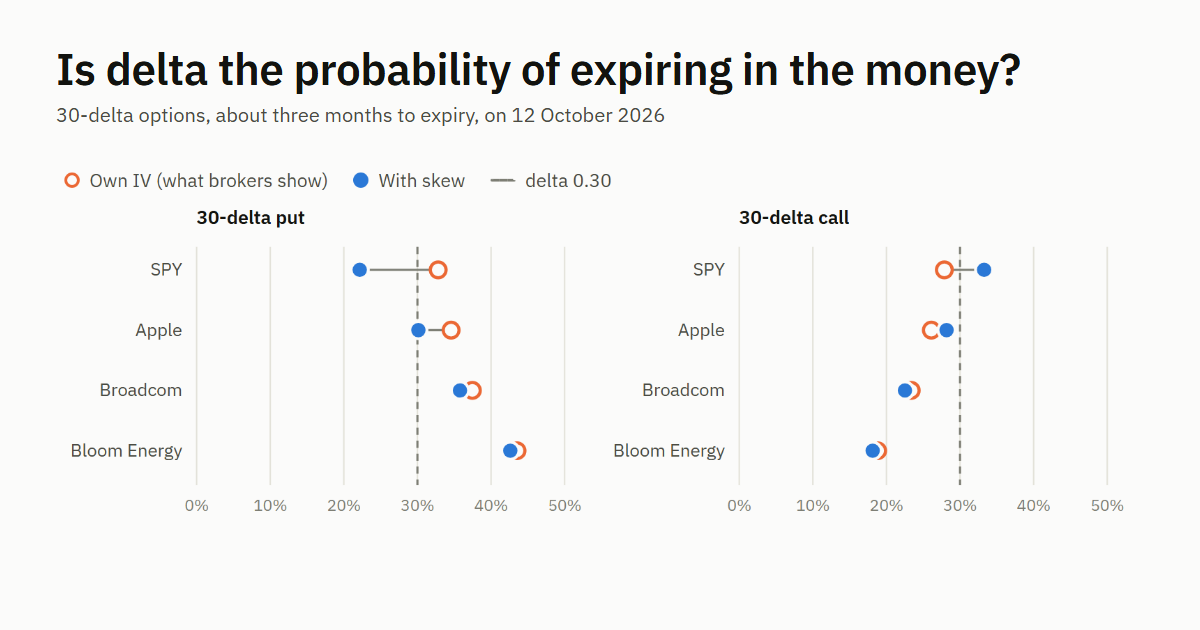
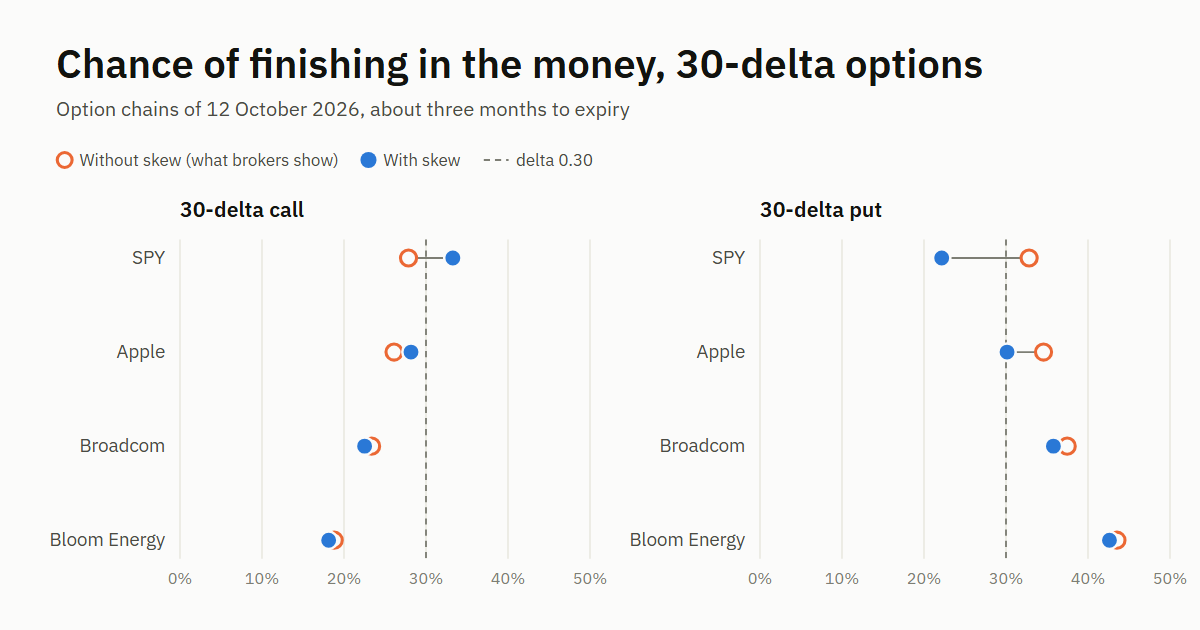
Site update

diff --git a/research/delta-vs-itm-probability.html b/research/delta-vs-itm-probability.html
@@ -159,13 +159,13 @@
   <p>In a real option chain, each strike trades at its own implied volatility. On most stocks and especially on indexes, out-of-the-money puts carry a higher volatility than calls: the skew. That changes the odds in two ways, so I compare three numbers for each contract:</p>
   <ul>
     <li><strong>Delta</strong>, as usual.</li>
-    <li><strong>Own IV:</strong> the probability with each strike&#39;s own implied volatility in the textbook formula. This is what broker platforms usually show.</li>
+    <li><strong>Without skew:</strong> the probability with each strike&#39;s own implied volatility in the textbook formula, which ignores how the volatility changes from strike to strike. This is what broker platforms usually show.</li>
     <li><strong>With skew:</strong> the probability implied by the whole chain, which also takes into account how the volatility changes from strike to strike.</li>
   </ul>
 
   <figure class="viz" id="viz2" aria-label="Chart: probability of finishing in the money for 30-delta puts and calls on SPY, Apple, Broadcom and Bloom Energy, about three months to expiry, with each strike's own volatility and with the skew.">
     <div class="viz-legend">
-      <span><i class="dot hollow" style="border-color:var(--c-own)"></i>Own IV (what brokers show)</span>
+      <span><i class="dot hollow" style="border-color:var(--c-own)"></i>Without skew (what brokers show)</span>
       <span><i class="dot" style="background:var(--c-skew)"></i>With skew</span>
       <span><i class="dash"></i>delta 0.30</span>
     </div>
@@ -204,12 +204,12 @@
   </ul>
 
   <h2>All values: real option chains</h2>
-  <p class="small">Probability of finishing in the money with each strike&#39;s own implied volatility (own IV) and implied by the whole chain (with skew), for deltas from 0.50 to 0.10.</p>
+  <p class="small">Probability of finishing in the money with each strike&#39;s own implied volatility (without skew) and implied by the whole chain (with skew), for deltas from 0.50 to 0.10.</p>
   <h3>SPY</h3>
   <p class="small">32 days to expiry (13 November 2026)</p>
     <div class="table-scroll"><table><thead><tr><th>Delta</th>
-    <th class="num">Put strike</th><th class="num">Put IV</th><th class="num">Own IV</th><th class="num">With skew</th>
-    <th class="num">Call strike</th><th class="num">Call IV</th><th class="num">Own IV</th><th class="num">With skew</th></tr></thead><tbody>
+    <th class="num">Put strike</th><th class="num">Put IV</th><th class="num">Without skew</th><th class="num">With skew</th>
+    <th class="num">Call strike</th><th class="num">Call IV</th><th class="num">Without skew</th><th class="num">With skew</th></tr></thead><tbody>
     <tr><td>0.50</td><td class="num">780.64</td><td class="num">12.2%</td><td class="num">51.4%</td><td class="num"><strong>43.3%</strong></td><td class="num">780.64</td><td class="num">12.2%</td><td class="num">48.6%</td><td class="num"><strong>56.7%</strong></td></tr>
     <tr><td>0.40</td><td class="num">773.16</td><td class="num">12.9%</td><td class="num">41.5%</td><td class="num"><strong>32.5%</strong></td><td class="num">787.47</td><td class="num">11.7%</td><td class="num">38.7%</td><td class="num"><strong>45.4%</strong></td></tr>
     <tr><td>0.30</td><td class="num">764.10</td><td class="num">13.9%</td><td class="num">31.4%</td><td class="num"><strong>22.3%</strong></td><td class="num">794.28</td><td class="num">11.2%</td><td class="num">28.9%</td><td class="num"><strong>33.8%</strong></td></tr>
@@ -218,8 +218,8 @@
     </tbody></table></div>
   <p class="small">95 days to expiry (15 January 2027)</p>
     <div class="table-scroll"><table><thead><tr><th>Delta</th>
-    <th class="num">Put strike</th><th class="num">Put IV</th><th class="num">Own IV</th><th class="num">With skew</th>
-    <th class="num">Call strike</th><th class="num">Call IV</th><th class="num">Own IV</th><th class="num">With skew</th></tr></thead><tbody>
+    <th class="num">Put strike</th><th class="num">Put IV</th><th class="num">Without skew</th><th class="num">With skew</th>
+    <th class="num">Call strike</th><th class="num">Call IV</th><th class="num">Without skew</th><th class="num">With skew</th></tr></thead><tbody>
     <tr><td>0.50</td><td class="num">785.95</td><td class="num">13.5%</td><td class="num">52.7%</td><td class="num"><strong>43.6%</strong></td><td class="num">785.95</td><td class="num">13.5%</td><td class="num">47.3%</td><td class="num"><strong>56.4%</strong></td></tr>
     <tr><td>0.40</td><td class="num">771.75</td><td class="num">14.4%</td><td class="num">42.9%</td><td class="num"><strong>32.5%</strong></td><td class="num">798.86</td><td class="num">12.8%</td><td class="num">37.5%</td><td class="num"><strong>45.0%</strong></td></tr>
     <tr><td>0.30</td><td class="num">754.44</td><td class="num">15.6%</td><td class="num">32.8%</td><td class="num"><strong>22.2%</strong></td><td class="num">811.73</td><td class="num">12.2%</td><td class="num">27.9%</td><td class="num"><strong>33.3%</strong></td></tr>
@@ -228,8 +228,8 @@
     </tbody></table></div>
   <p class="small">170 days to expiry (31 March 2027)</p>
     <div class="table-scroll"><table><thead><tr><th>Delta</th>
-    <th class="num">Put strike</th><th class="num">Put IV</th><th class="num">Own IV</th><th class="num">With skew</th>
-    <th class="num">Call strike</th><th class="num">Call IV</th><th class="num">Own IV</th><th class="num">With skew</th></tr></thead><tbody>
+    <th class="num">Put strike</th><th class="num">Put IV</th><th class="num">Without skew</th><th class="num">With skew</th>
+    <th class="num">Call strike</th><th class="num">Call IV</th><th class="num">Without skew</th><th class="num">With skew</th></tr></thead><tbody>
     <tr><td>0.50</td><td class="num">793.58</td><td class="num">14.3%</td><td class="num">53.9%</td><td class="num"><strong>44.5%</strong></td><td class="num">793.58</td><td class="num">14.3%</td><td class="num">46.1%</td><td class="num"><strong>55.5%</strong></td></tr>
     <tr><td>0.40</td><td class="num">773.36</td><td class="num">15.3%</td><td class="num">44.1%</td><td class="num"><strong>33.4%</strong></td><td class="num">812.08</td><td class="num">13.6%</td><td class="num">36.5%</td><td class="num"><strong>44.0%</strong></td></tr>
     <tr><td>0.30</td><td class="num">748.87</td><td class="num">16.7%</td><td class="num">34.1%</td><td class="num"><strong>22.9%</strong></td><td class="num">830.68</td><td class="num">13.0%</td><td class="num">27.0%</td><td class="num"><strong>32.3%</strong></td></tr>
@@ -239,8 +239,8 @@
   <h3>Apple (AAPL)</h3>
   <p class="small">32 days to expiry (13 November 2026)</p>
     <div class="table-scroll"><table><thead><tr><th>Delta</th>
-    <th class="num">Put strike</th><th class="num">Put IV</th><th class="num">Own IV</th><th class="num">With skew</th>
-    <th class="num">Call strike</th><th class="num">Call IV</th><th class="num">Own IV</th><th class="num">With skew</th></tr></thead><tbody>
+    <th class="num">Put strike</th><th class="num">Put IV</th><th class="num">Without skew</th><th class="num">With skew</th>
+    <th class="num">Call strike</th><th class="num">Call IV</th><th class="num">Without skew</th><th class="num">With skew</th></tr></thead><tbody>
     <tr><td>0.50</td><td class="num">342.00</td><td class="num">25.4%</td><td class="num">53.0%</td><td class="num"><strong>48.9%</strong></td><td class="num">342.00</td><td class="num">25.4%</td><td class="num">47.0%</td><td class="num"><strong>51.1%</strong></td></tr>
     <tr><td>0.40</td><td class="num">335.41</td><td class="num">26.1%</td><td class="num">43.0%</td><td class="num"><strong>38.5%</strong></td><td class="num">348.39</td><td class="num">24.8%</td><td class="num">37.2%</td><td class="num"><strong>40.5%</strong></td></tr>
     <tr><td>0.30</td><td class="num">328.06</td><td class="num">27.0%</td><td class="num">32.8%</td><td class="num"><strong>28.4%</strong></td><td class="num">355.09</td><td class="num">24.3%</td><td class="num">27.5%</td><td class="num"><strong>29.8%</strong></td></tr>
@@ -249,8 +249,8 @@
     </tbody></table></div>
   <p class="small">95 days to expiry (15 January 2027)</p>
     <div class="table-scroll"><table><thead><tr><th>Delta</th>
-    <th class="num">Put strike</th><th class="num">Put IV</th><th class="num">Own IV</th><th class="num">With skew</th>
-    <th class="num">Call strike</th><th class="num">Call IV</th><th class="num">Own IV</th><th class="num">With skew</th></tr></thead><tbody>
+    <th class="num">Put strike</th><th class="num">Put IV</th><th class="num">Without skew</th><th class="num">With skew</th>
+    <th class="num">Call strike</th><th class="num">Call IV</th><th class="num">Without skew</th><th class="num">With skew</th></tr></thead><tbody>
     <tr><td>0.50</td><td class="num">346.03</td><td class="num">23.6%</td><td class="num">54.8%</td><td class="num"><strong>51.1%</strong></td><td class="num">346.03</td><td class="num">23.6%</td><td class="num">45.2%</td><td class="num"><strong>48.9%</strong></td></tr>
     <tr><td>0.40</td><td class="num">335.48</td><td class="num">24.2%</td><td class="num">44.8%</td><td class="num"><strong>40.6%</strong></td><td class="num">356.42</td><td class="num">23.1%</td><td class="num">35.5%</td><td class="num"><strong>38.5%</strong></td></tr>
     <tr><td>0.30</td><td class="num">323.91</td><td class="num">25.0%</td><td class="num">34.6%</td><td class="num"><strong>30.1%</strong></td><td class="num">367.48</td><td class="num">22.7%</td><td class="num">26.1%</td><td class="num"><strong>28.2%</strong></td></tr>
@@ -259,8 +259,8 @@
     </tbody></table></div>
   <p class="small">158 days to expiry (19 March 2027)</p>
     <div class="table-scroll"><table><thead><tr><th>Delta</th>
-    <th class="num">Put strike</th><th class="num">Put IV</th><th class="num">Own IV</th><th class="num">With skew</th>
-    <th class="num">Call strike</th><th class="num">Call IV</th><th class="num">Own IV</th><th class="num">With skew</th></tr></thead><tbody>
+    <th class="num">Put strike</th><th class="num">Put IV</th><th class="num">Without skew</th><th class="num">With skew</th>
+    <th class="num">Call strike</th><th class="num">Call IV</th><th class="num">Without skew</th><th class="num">With skew</th></tr></thead><tbody>
     <tr><td>0.50</td><td class="num">350.55</td><td class="num">25.0%</td><td class="num">56.5%</td><td class="num"><strong>53.2%</strong></td><td class="num">350.55</td><td class="num">25.0%</td><td class="num">43.5%</td><td class="num"><strong>46.8%</strong></td></tr>
     <tr><td>0.40</td><td class="num">336.15</td><td class="num">25.5%</td><td class="num">46.6%</td><td class="num"><strong>42.7%</strong></td><td class="num">364.97</td><td class="num">24.5%</td><td class="num">33.9%</td><td class="num"><strong>36.5%</strong></td></tr>
     <tr><td>0.30</td><td class="num">320.62</td><td class="num">26.3%</td><td class="num">36.3%</td><td class="num"><strong>32.0%</strong></td><td class="num">380.56</td><td class="num">24.1%</td><td class="num">24.7%</td><td class="num"><strong>26.6%</strong></td></tr>
@@ -270,8 +270,8 @@
   <h3>Broadcom (AVGO)</h3>
   <p class="small">32 days to expiry (13 November 2026)</p>
     <div class="table-scroll"><table><thead><tr><th>Delta</th>
-    <th class="num">Put strike</th><th class="num">Put IV</th><th class="num">Own IV</th><th class="num">With skew</th>
-    <th class="num">Call strike</th><th class="num">Call IV</th><th class="num">Own IV</th><th class="num">With skew</th></tr></thead><tbody>
+    <th class="num">Put strike</th><th class="num">Put IV</th><th class="num">Without skew</th><th class="num">With skew</th>
+    <th class="num">Call strike</th><th class="num">Call IV</th><th class="num">Without skew</th><th class="num">With skew</th></tr></thead><tbody>
     <tr><td>0.50</td><td class="num">357.97</td><td class="num">35.9%</td><td class="num">54.2%</td><td class="num"><strong>52.9%</strong></td><td class="num">357.97</td><td class="num">35.9%</td><td class="num">45.8%</td><td class="num"><strong>47.1%</strong></td></tr>
     <tr><td>0.40</td><td class="num">348.40</td><td class="num">36.3%</td><td class="num">44.2%</td><td class="num"><strong>42.5%</strong></td><td class="num">367.66</td><td class="num">35.7%</td><td class="num">36.0%</td><td class="num"><strong>36.7%</strong></td></tr>
     <tr><td>0.30</td><td class="num">338.20</td><td class="num">36.8%</td><td class="num">33.9%</td><td class="num"><strong>32.1%</strong></td><td class="num">378.28</td><td class="num">35.6%</td><td class="num">26.4%</td><td class="num"><strong>26.4%</strong></td></tr>
@@ -280,8 +280,8 @@
     </tbody></table></div>
   <p class="small">95 days to expiry (15 January 2027)</p>
     <div class="table-scroll"><table><thead><tr><th>Delta</th>
-    <th class="num">Put strike</th><th class="num">Put IV</th><th class="num">Own IV</th><th class="num">With skew</th>
-    <th class="num">Call strike</th><th class="num">Call IV</th><th class="num">Own IV</th><th class="num">With skew</th></tr></thead><tbody>
+    <th class="num">Put strike</th><th class="num">Put IV</th><th class="num">Without skew</th><th class="num">With skew</th>
+    <th class="num">Call strike</th><th class="num">Call IV</th><th class="num">Without skew</th><th class="num">With skew</th></tr></thead><tbody>
     <tr><td>0.50</td><td class="num">365.33</td><td class="num">39.5%</td><td class="num">58.0%</td><td class="num"><strong>57.5%</strong></td><td class="num">365.33</td><td class="num">39.5%</td><td class="num">42.0%</td><td class="num"><strong>42.5%</strong></td></tr>
     <tr><td>0.40</td><td class="num">347.11</td><td class="num">39.7%</td><td class="num">48.0%</td><td class="num"><strong>46.8%</strong></td><td class="num">384.45</td><td class="num">39.5%</td><td class="num">32.5%</td><td class="num"><strong>32.3%</strong></td></tr>
     <tr><td>0.30</td><td class="num">328.33</td><td class="num">40.1%</td><td class="num">37.5%</td><td class="num"><strong>35.8%</strong></td><td class="num">406.30</td><td class="num">39.7%</td><td class="num">23.4%</td><td class="num"><strong>22.5%</strong></td></tr>
@@ -290,8 +290,8 @@
     </tbody></table></div>
   <p class="small">158 days to expiry (19 March 2027)</p>
     <div class="table-scroll"><table><thead><tr><th>Delta</th>
-    <th class="num">Put strike</th><th class="num">Put IV</th><th class="num">Own IV</th><th class="num">With skew</th>
-    <th class="num">Call strike</th><th class="num">Call IV</th><th class="num">Own IV</th><th class="num">With skew</th></tr></thead><tbody>
+    <th class="num">Put strike</th><th class="num">Put IV</th><th class="num">Without skew</th><th class="num">With skew</th>
+    <th class="num">Call strike</th><th class="num">Call IV</th><th class="num">Without skew</th><th class="num">With skew</th></tr></thead><tbody>
     <tr><td>0.50</td><td class="num">374.93</td><td class="num">41.7%</td><td class="num">60.8%</td><td class="num"><strong>61.1%</strong></td><td class="num">374.93</td><td class="num">41.7%</td><td class="num">39.2%</td><td class="num"><strong>38.9%</strong></td></tr>
     <tr><td>0.40</td><td class="num">349.74</td><td class="num">41.7%</td><td class="num">50.8%</td><td class="num"><strong>50.6%</strong></td><td class="num">402.13</td><td class="num">41.9%</td><td class="num">29.8%</td><td class="num"><strong>29.1%</strong></td></tr>
     <tr><td>0.30</td><td class="num">324.58</td><td class="num">41.9%</td><td class="num">40.2%</td><td class="num"><strong>39.3%</strong></td><td class="num">434.06</td><td class="num">42.2%</td><td class="num">21.1%</td><td class="num"><strong>20.1%</strong></td></tr>
@@ -301,8 +301,8 @@
   <h3>Bloom Energy (BE)</h3>
   <p class="small">32 days to expiry (13 November 2026)</p>
     <div class="table-scroll"><table><thead><tr><th>Delta</th>
-    <th class="num">Put strike</th><th class="num">Put IV</th><th class="num">Own IV</th><th class="num">With skew</th>
-    <th class="num">Call strike</th><th class="num">Call IV</th><th class="num">Own IV</th><th class="num">With skew</th></tr></thead><tbody>
+    <th class="num">Put strike</th><th class="num">Put IV</th><th class="num">Without skew</th><th class="num">With skew</th>
+    <th class="num">Call strike</th><th class="num">Call IV</th><th class="num">Without skew</th><th class="num">With skew</th></tr></thead><tbody>
     <tr><td>0.50</td><td class="num">267.86</td><td class="num">74.9%</td><td class="num">58.8%</td><td class="num"><strong>57.4%</strong></td><td class="num">267.86</td><td class="num">74.9%</td><td class="num">41.2%</td><td class="num"><strong>42.6%</strong></td></tr>
     <tr><td>0.40</td><td class="num">253.20</td><td class="num">75.7%</td><td class="num">48.8%</td><td class="num"><strong>47.0%</strong></td><td class="num">283.13</td><td class="num">74.4%</td><td class="num">31.8%</td><td class="num"><strong>32.5%</strong></td></tr>
     <tr><td>0.30</td><td class="num">238.07</td><td class="num">76.7%</td><td class="num">38.3%</td><td class="num"><strong>36.5%</strong></td><td class="num">300.44</td><td class="num">74.2%</td><td class="num">22.8%</td><td class="num"><strong>22.7%</strong></td></tr>
@@ -311,8 +311,8 @@
     </tbody></table></div>
   <p class="small">95 days to expiry (15 January 2027)</p>
     <div class="table-scroll"><table><thead><tr><th>Delta</th>
-    <th class="num">Put strike</th><th class="num">Put IV</th><th class="num">Own IV</th><th class="num">With skew</th>
-    <th class="num">Call strike</th><th class="num">Call IV</th><th class="num">Own IV</th><th class="num">With skew</th></tr></thead><tbody>
+    <th class="num">Put strike</th><th class="num">Put IV</th><th class="num">Without skew</th><th class="num">With skew</th>
+    <th class="num">Call strike</th><th class="num">Call IV</th><th class="num">Without skew</th><th class="num">With skew</th></tr></thead><tbody>
     <tr><td>0.50</td><td class="num">281.11</td><td class="num">70.3%</td><td class="num">64.0%</td><td class="num"><strong>63.9%</strong></td><td class="num">281.11</td><td class="num">70.3%</td><td class="num">36.0%</td><td class="num"><strong>36.1%</strong></td></tr>
     <tr><td>0.40</td><td class="num">256.71</td><td class="num">70.5%</td><td class="num">54.2%</td><td class="num"><strong>53.7%</strong></td><td class="num">307.90</td><td class="num">70.4%</td><td class="num">27.0%</td><td class="num"><strong>26.7%</strong></td></tr>
     <tr><td>0.30</td><td class="num">232.80</td><td class="num">70.9%</td><td class="num">43.5%</td><td class="num"><strong>42.6%</strong></td><td class="num">339.86</td><td class="num">70.7%</td><td class="num">18.8%</td><td class="num"><strong>18.1%</strong></td></tr>
@@ -321,8 +321,8 @@
     </tbody></table></div>
   <p class="small">158 days to expiry (19 March 2027)</p>
     <div class="table-scroll"><table><thead><tr><th>Delta</th>
-    <th class="num">Put strike</th><th class="num">Put IV</th><th class="num">Own IV</th><th class="num">With skew</th>
-    <th class="num">Call strike</th><th class="num">Call IV</th><th class="num">Own IV</th><th class="num">With skew</th></tr></thead><tbody>
+    <th class="num">Put strike</th><th class="num">Put IV</th><th class="num">Without skew</th><th class="num">With skew</th>
+    <th class="num">Call strike</th><th class="num">Call IV</th><th class="num">Without skew</th><th class="num">With skew</th></tr></thead><tbody>
     <tr><td>0.50</td><td class="num">297.68</td><td class="num">72.3%</td><td class="num">68.3%</td><td class="num"><strong>68.6%</strong></td><td class="num">297.68</td><td class="num">72.3%</td><td class="num">31.7%</td><td class="num"><strong>31.4%</strong></td></tr>
     <tr><td>0.40</td><td class="num">263.88</td><td class="num">72.3%</td><td class="num">58.8%</td><td class="num"><strong>58.6%</strong></td><td class="num">336.30</td><td class="num">72.6%</td><td class="num">23.2%</td><td class="num"><strong>22.4%</strong></td></tr>
     <tr><td>0.30</td><td class="num">231.96</td><td class="num">72.5%</td><td class="num">48.1%</td><td class="num"><strong>47.5%</strong></td><td class="num">384.85</td><td class="num">73.4%</td><td class="num">15.7%</td><td class="num"><strong>14.4%</strong></td></tr>
@@ -427,7 +427,7 @@ function tipFor(fig) {
       el('circle', { cx: xs(r.flat), cy: y, r: 5.5, fill: 'var(--bg)', stroke: 'var(--c-own)', 'stroke-width': 2.2 }, s);
       el('circle', { cx: xs(r.skew), cy: y, r: 6, fill: 'var(--c-skew)', stroke: 'var(--bg)', 'stroke-width': 2 }, s);
       const hit = el('rect', { x: L, y: y - 13, width: W - L - R, height: 26, fill: 'transparent' }, s);
-      hit.addEventListener('mousemove', e => tip.show('<b>' + names[sym] + '</b>, 30-delta ' + side + ', ' + r.dte + ' days<br>own IV: ' + pct(r.flat) + '<br>with skew: ' + pct(r.skew), e));
+      hit.addEventListener('mousemove', e => tip.show('<b>' + names[sym] + '</b>, 30-delta ' + side + ', ' + r.dte + ' days<br>without skew: ' + pct(r.flat) + '<br>with skew: ' + pct(r.skew), e));
       hit.addEventListener('mouseleave', () => tip.hide());
     });
   });
